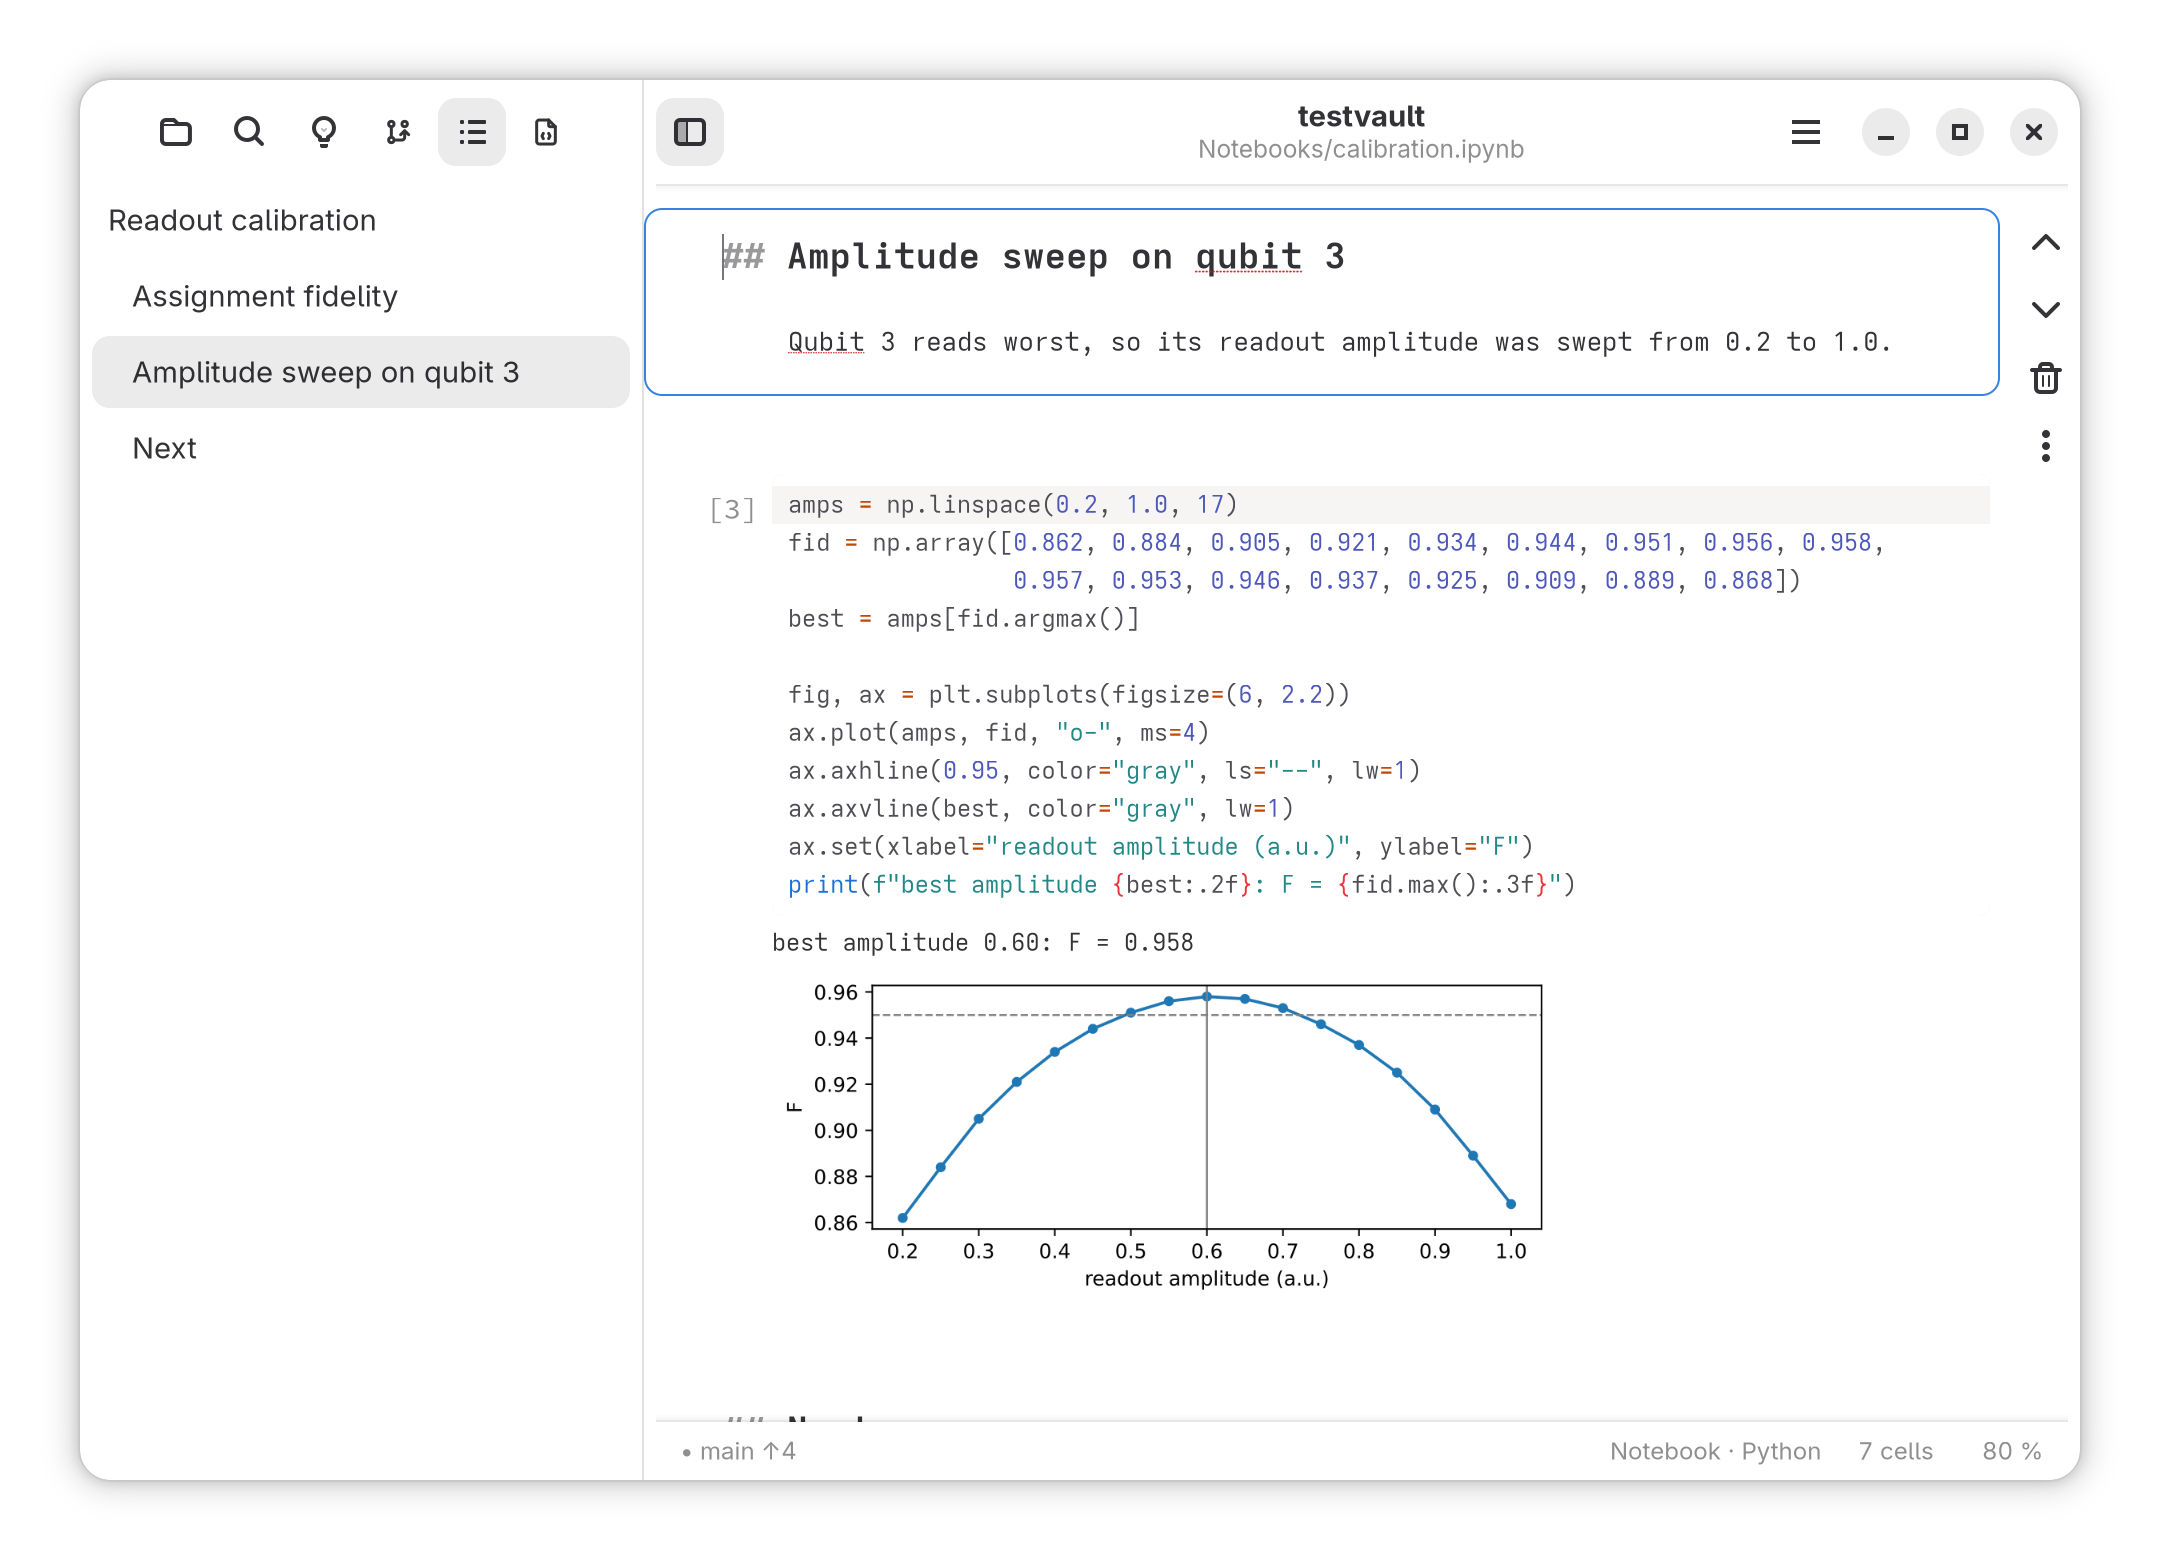
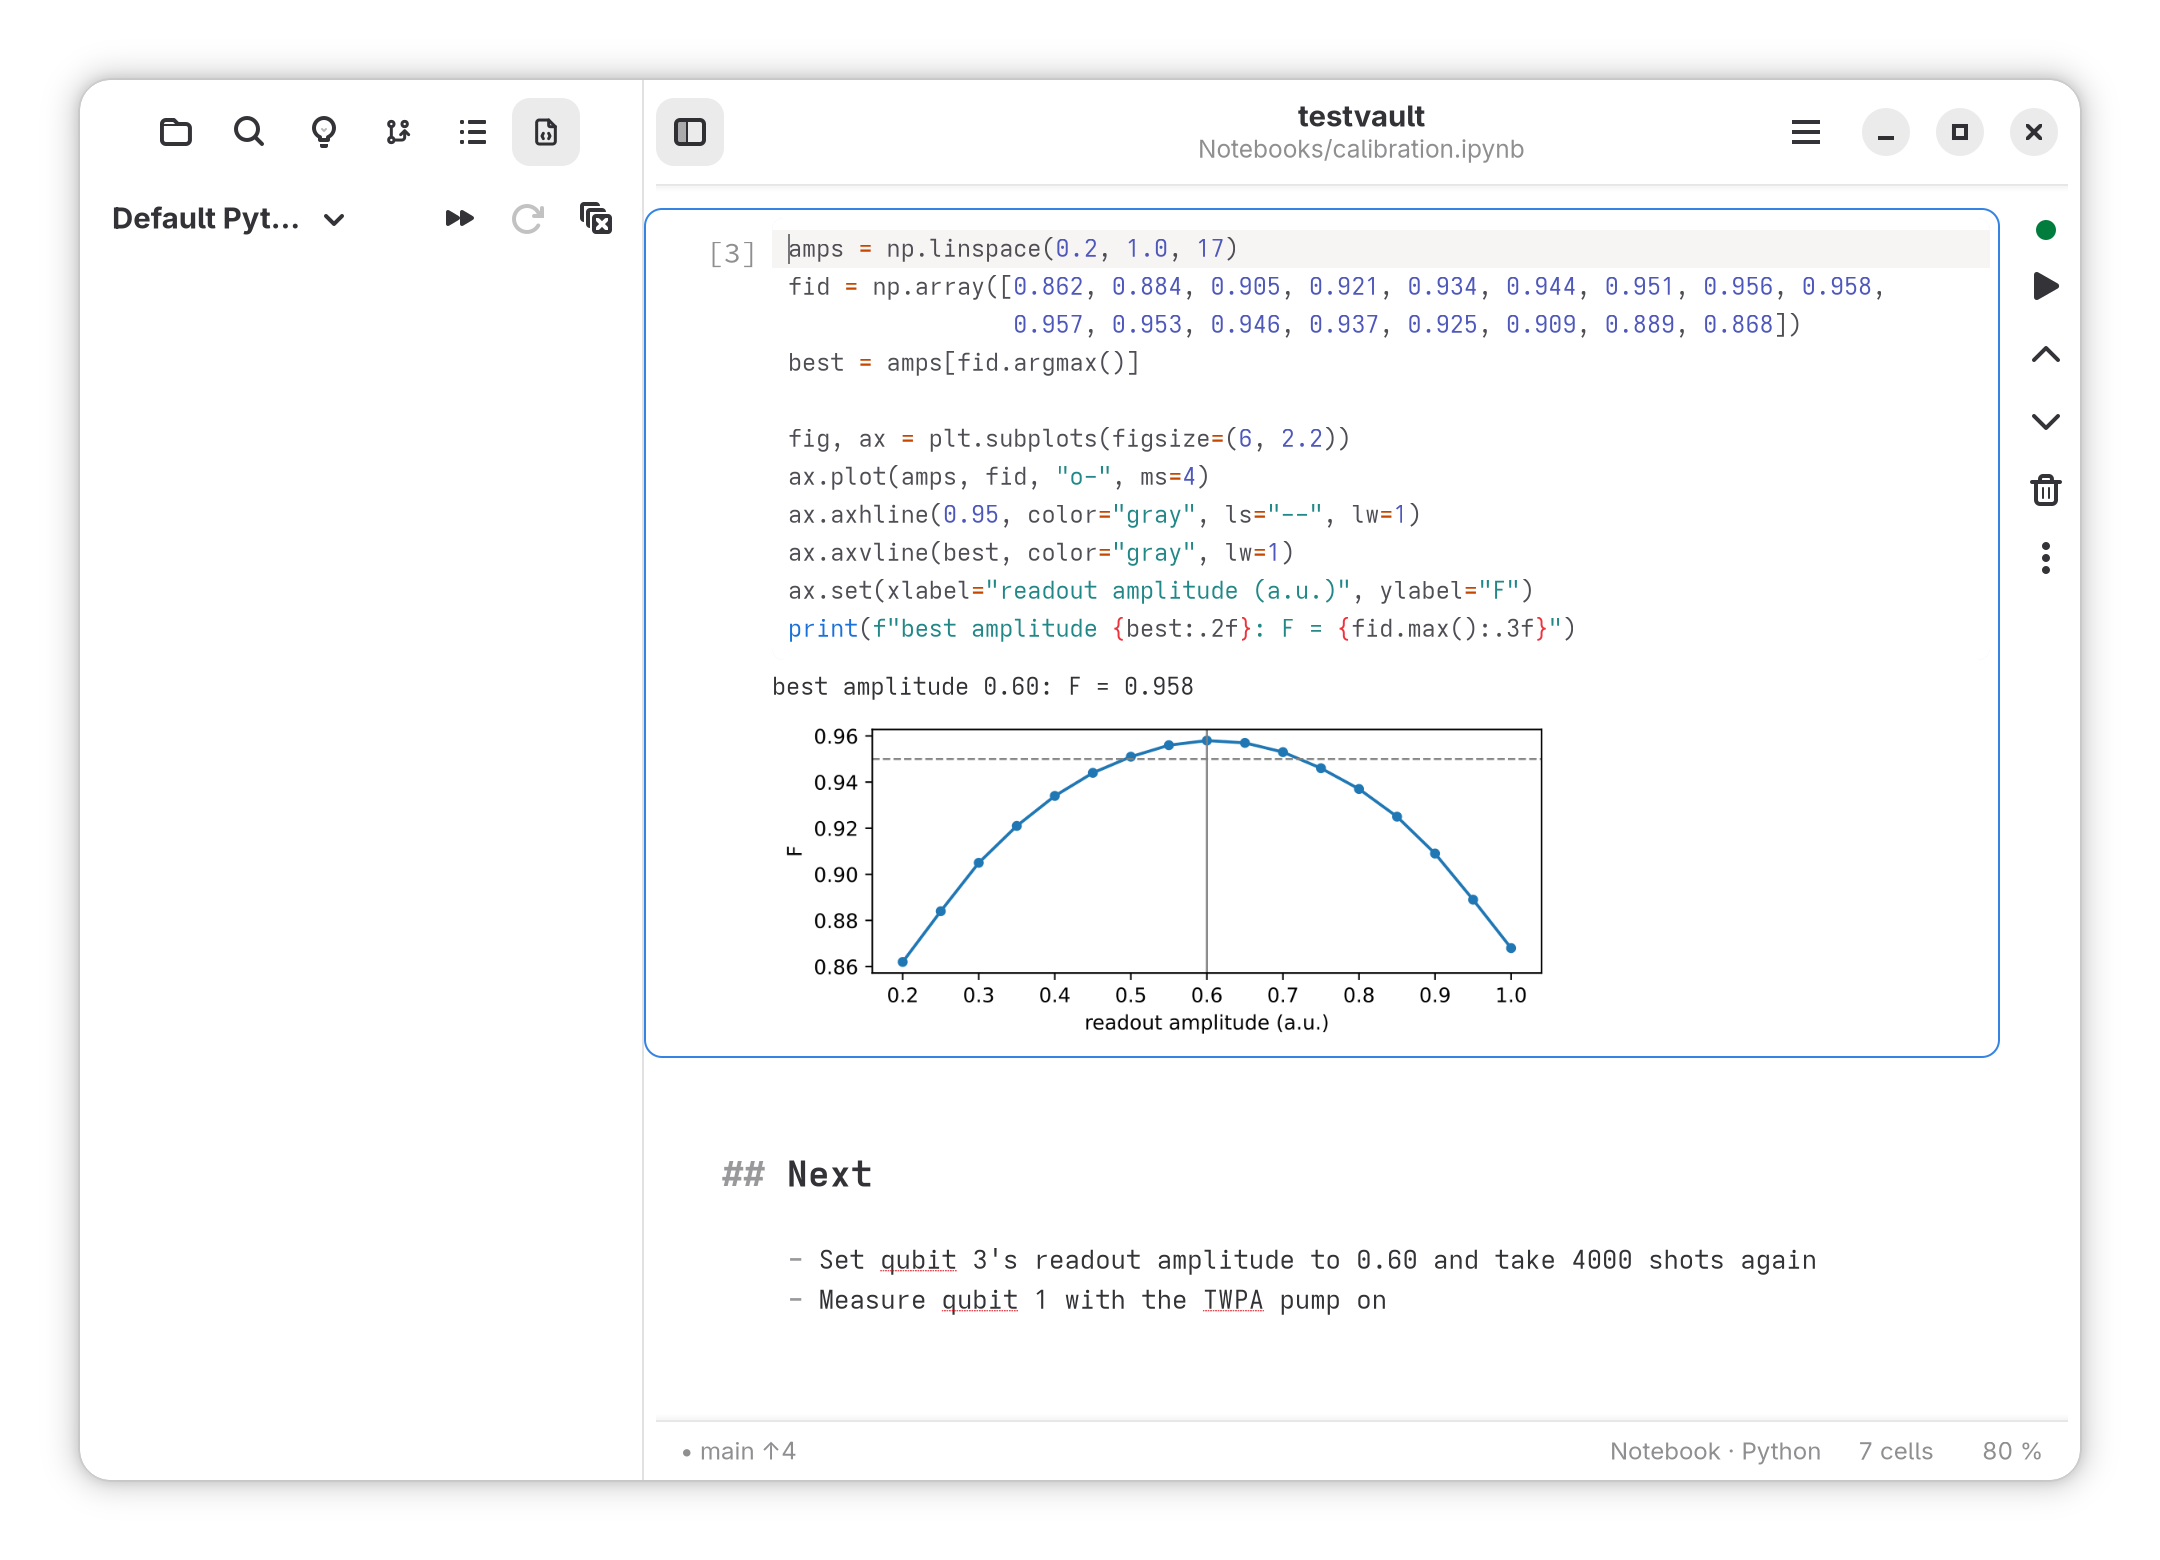
Show the Properties and Code panes in the diagram and notebook screenshots, and wait out a tab's loading page

diff --git a/apps/gtk/src/bench/shots.rs b/apps/gtk/src/bench/shots.rs
@@ -444,8 +444,8 @@ async fn scene_debug(app: &Rc<App>, shot: &Shot) {
 /// Scene 6's diagram, `build-aux/screenshots/readout-chain.drawio.xml`.
 const DIAGRAM: &str = "Submissions/grant-2026/figures/readout-chain.drawio";
 
-/// Scene 6: a draw.io diagram of a readout chain, its pages in the Outline over their
-/// thumbnails, the drawing tools put away.
+/// Scene 6: a draw.io diagram of a readout chain, its qubit chip selected and the Properties
+/// pane on it, the drawing tools put away.
 async fn scene_diagram(app: &Rc<App>, shot: &Shot) {
     open_all(app, &[DIAGRAM]).await;
     until("diagram", 10_000, || {
@@ -454,7 +454,14 @@ async fn scene_diagram(app: &Rc<App>, shot: &Shot) {
     .await;
     // Out by default, the ring would cover the page's top corner.
     app.set_drawing(false);
-    app.show_pane("outline");
+    until("properties", 5_000, || {
+        app.sidebar.get().is_some_and(|s| s.has_pane("properties"))
+    })
+    .await;
+    app.show_pane("properties");
+    if let Some(tab) = app.active_diagram() {
+        tab.select(vec!["chip".to_string()]);
+    }
     for dark in [false, true] {
         set_dark(app, dark).await;
         app.show_chrome();
@@ -466,25 +473,36 @@ async fn scene_diagram(app: &Rc<App>, shot: &Shot) {
 /// left them.
 const NOTEBOOK: &str = "Notebooks/calibration.ipynb";
 
-/// Scene 7: a notebook on its sweep's code and plot, reached through the sweep's heading in the
-/// Outline.
+/// The sweep's code cell in scene 7's notebook, the one whose output is the plot.
+const SWEEP: usize = 5;
+
+/// Scene 7: a notebook's sweep, its code cell given the keyboard with its buttons beside it and
+/// its plot under it, the Code pane on the notebook's kernel.
 async fn scene_notebook(app: &Rc<App>, shot: &Shot) {
     // A cell of code and its plot together, in a 1000 px window.
     app.set_zoom(0.8);
     open_all(app, &[NOTEBOOK]).await;
-    let (Some(tab), Some(sidebar)) = (app.active_notebook(), app.sidebar.get()) else {
+    let Some(tab) = app.active_notebook() else {
         return println!("bench shot no_notebook");
     };
-    app.show_pane("outline");
-    until("outline", 10_000, || sidebar.outline_lines(None).len() == 4).await;
-    // As a click on the heading does, and a scroll on until its cell is at the top, so the plot
-    // under it shows whole.
-    sidebar.outline_lines(Some(2));
-    let page = tab.bench_range().1;
-    let shown = || tab.bench_cell_y(4).filter(|y| (0.0..page).contains(y));
-    until("jump", 5_000, || shown().is_some()).await;
-    if let Some(y) = shown() {
-        tab.bench_scroll_by((y - 12.0) / page);
+    until("code", 5_000, || {
+        app.sidebar.get().is_some_and(|s| s.has_pane("code"))
+    })
+    .await;
+    app.show_pane("code");
+    // Given the keyboard as a click into it does, and scrolled until it is at the top, so the plot
+    // under it shows whole: again once the cells coming into view are built.
+    tab.bench_select(SWEEP);
+    for _ in 0..2 {
+        let page = || tab.bench_range().1;
+        until("cell", 5_000, || {
+            page() > 0.0 && tab.bench_cell_y(SWEEP).is_some()
+        })
+        .await;
+        if let Some(y) = tab.bench_cell_y(SWEEP) {
+            tab.bench_scroll_by((y - 12.0) / page());
+        }
+        style::bench_painted(&app.window, String::new).await;
     }
     for dark in [false, true] {
         set_dark(app, dark).await;
@@ -608,15 +626,17 @@ async fn until(what: &str, ms: u64, ready: impl Fn() -> bool) {
     }
 }
 
-/// Open every one of `rels` and wait until each has a tab.
+/// Open every one of `rels` and wait until each has its document, not the loading page its tab
+/// shows while the file is read.
 async fn open_all(app: &Rc<App>, rels: &[&str]) {
     for rel in rels {
         app.open_path(rel);
     }
-    until("open", 20_000, || {
-        rels.iter().all(|rel| app.doc_for(rel).is_some())
-    })
-    .await;
+    let read = |rel: &&str| {
+        app.doc_for(rel)
+            .is_some_and(|doc| !matches!(doc, Doc::Loading(_)))
+    };
+    until("open", 20_000, || rels.iter().all(read)).await;
 }
 
 /// Give `pane`'s document the keyboard, as a click into it does, and with it the active pane.

diff --git a/README.md b/README.md
@@ -52,9 +52,9 @@ See the [device support](#device-support) for compatibility.
 
 ![A Python program paused at a breakpoint in the Solarized theme, beside its Debug Console and output](docs/screenshot-5.png)
 
-![A draw.io diagram beside its pages in the Outline](docs/screenshot-6.png)
+![A draw.io diagram beside the Properties of its selected shape](docs/screenshot-6.png)
 
-![A Jupyter notebook's code and plot beside its headings in the Outline](docs/screenshot-7.png)
+![A Jupyter notebook's code cell and plot beside its kernel in the Code pane](docs/screenshot-7.png)
 
 ## Get started
 
